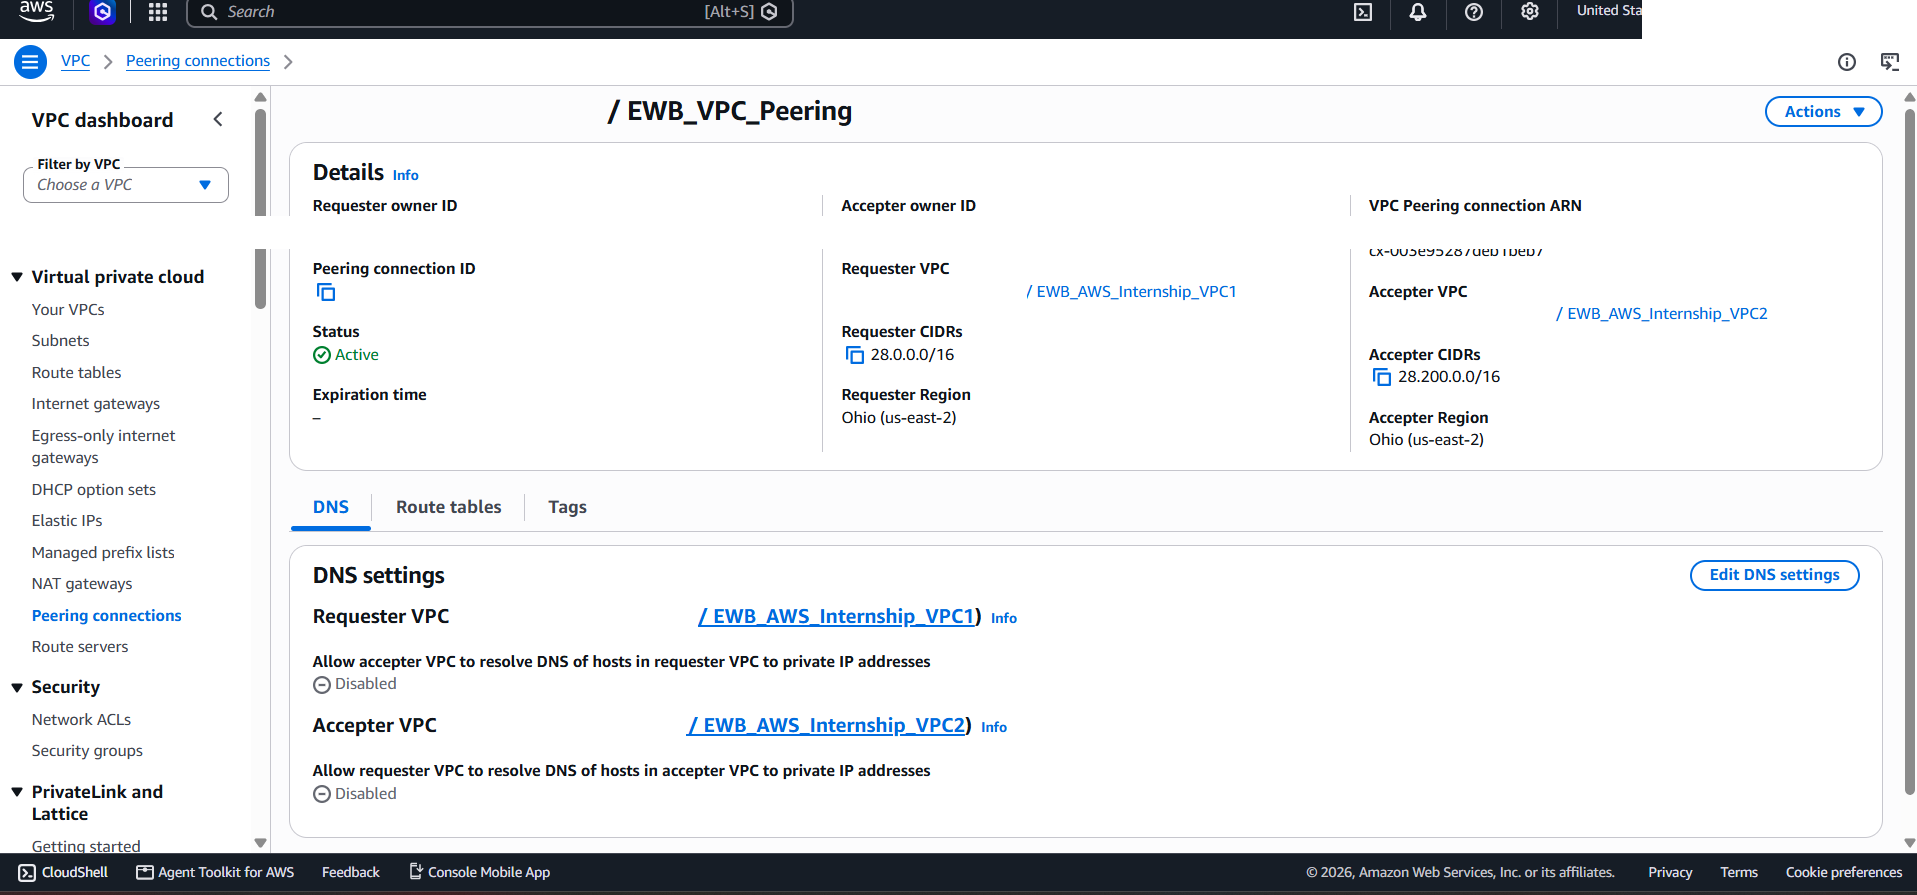
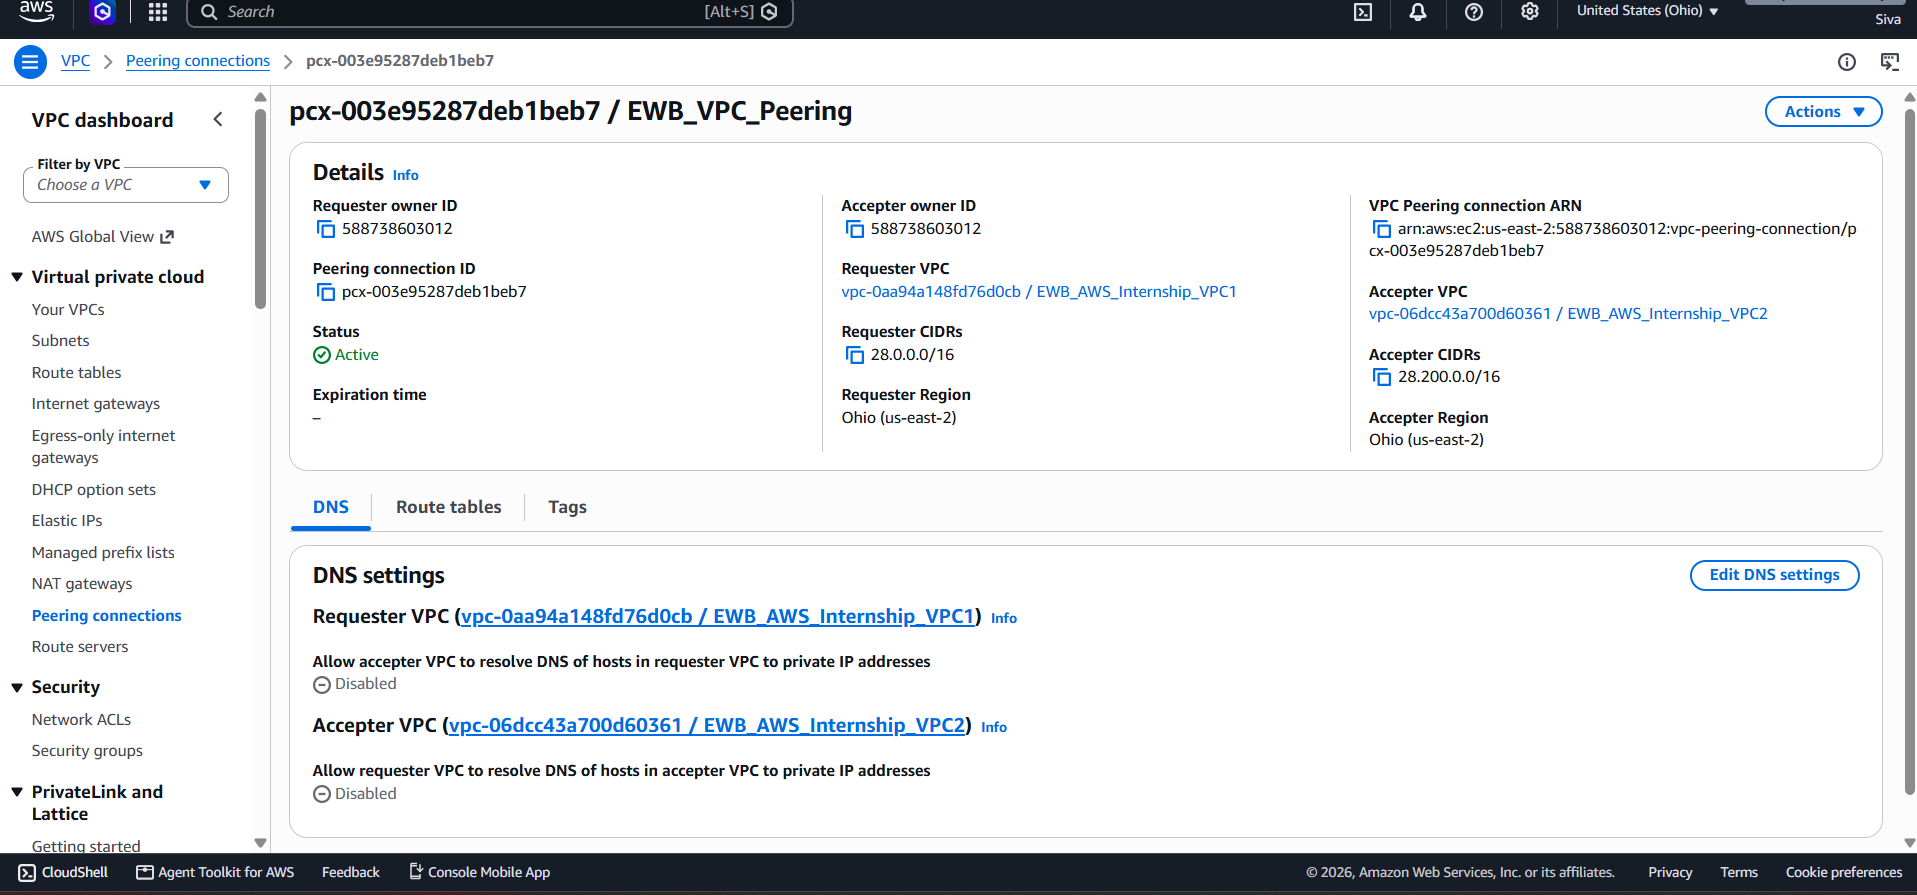
Replace AWS evidence screenshots and update README

diff --git a/README.md b/README.md
@@ -204,8 +204,22 @@ The project strengthened my understanding of AWS networking fundamentals, routin
 
 ## 12. Evidence Screenshot Index
 
-The evidence screenshots below are provided in `03_Evidence_Screenshots/`. 
+The following evidence images are stored in `03_Evidence_Screenshots/`. Screenshots are copied from the matching evidence gallery images in the portfolio website; image bytes are preserved without re-encoding.
 
-- `14_Available_Before_Cleanup.png` — Original evidence showing the EC2 instances before cleanup.
-- `15_Cleanup_Evidence.png` — Manually redacted screenshot documenting the cleanup/termination process.
-
+1. `01_VPC_Peering_Active.png` — Active VPC peering connection.
+2. `02_VPC1_Route_Table.png` — VPC 1 route table.
+3. `03_VPC2_Route_Table.png` — VPC 2 route table.
+4. `04_Third_Route_Table.png` — Additional/third route table.
+5. `05_VPC1_Security_Group.png` — VPC 1 security-group rules.
+6. `06_VPC2_Security_Group.png` — VPC 2 security-group rules.
+7. `07_VPC2_Security_Group_SSH_Rule.png` — SSH rule for VPC 2.
+8. `08_EC2_Resource_Details_VPC1.png` — EC2 resource details for VPC 1.
+9. `09_EC2_Resource_Details_VPC2.png` — EC2 resource details for VPC 2.
+10. `10_Forward_Ping_Success.png` — Successful forward-direction ICMP test.
+11. `11_Reverse_Ping_Success.png` — Successful reverse-direction ICMP test.
+12. `12_Private_SSH_App_B.png` — Private SSH access evidence for App B.
+13. `13_Controlled_ICMP_Failure.png` — Controlled ICMP failure during troubleshooting.
+14. `14_Available_Before_Cleanup.png` — EC2 instances available before cleanup.
+15. `15_Cleanup_Evidence.png` — Manually redacted cleanup/termination evidence, copied without further image editing.
+16. `16_ICMP_Recovery_Success.png` — Successful ICMP test after troubleshooting.
+17. `17_Architecture_and_Resource_Inventory.png` — Architecture and resource inventory evidence.
